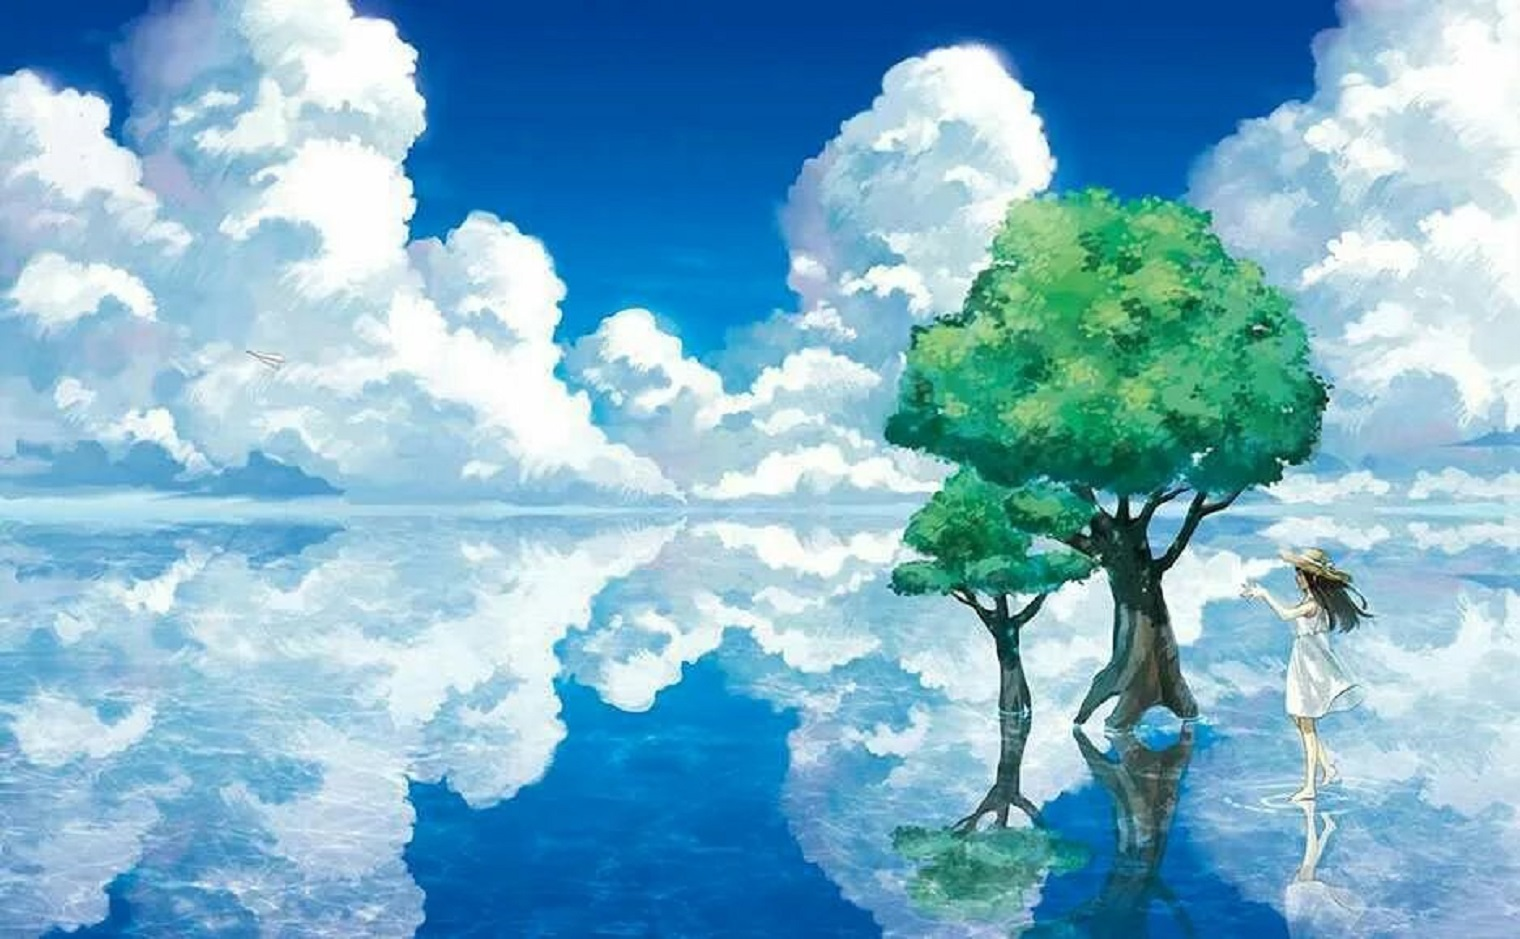
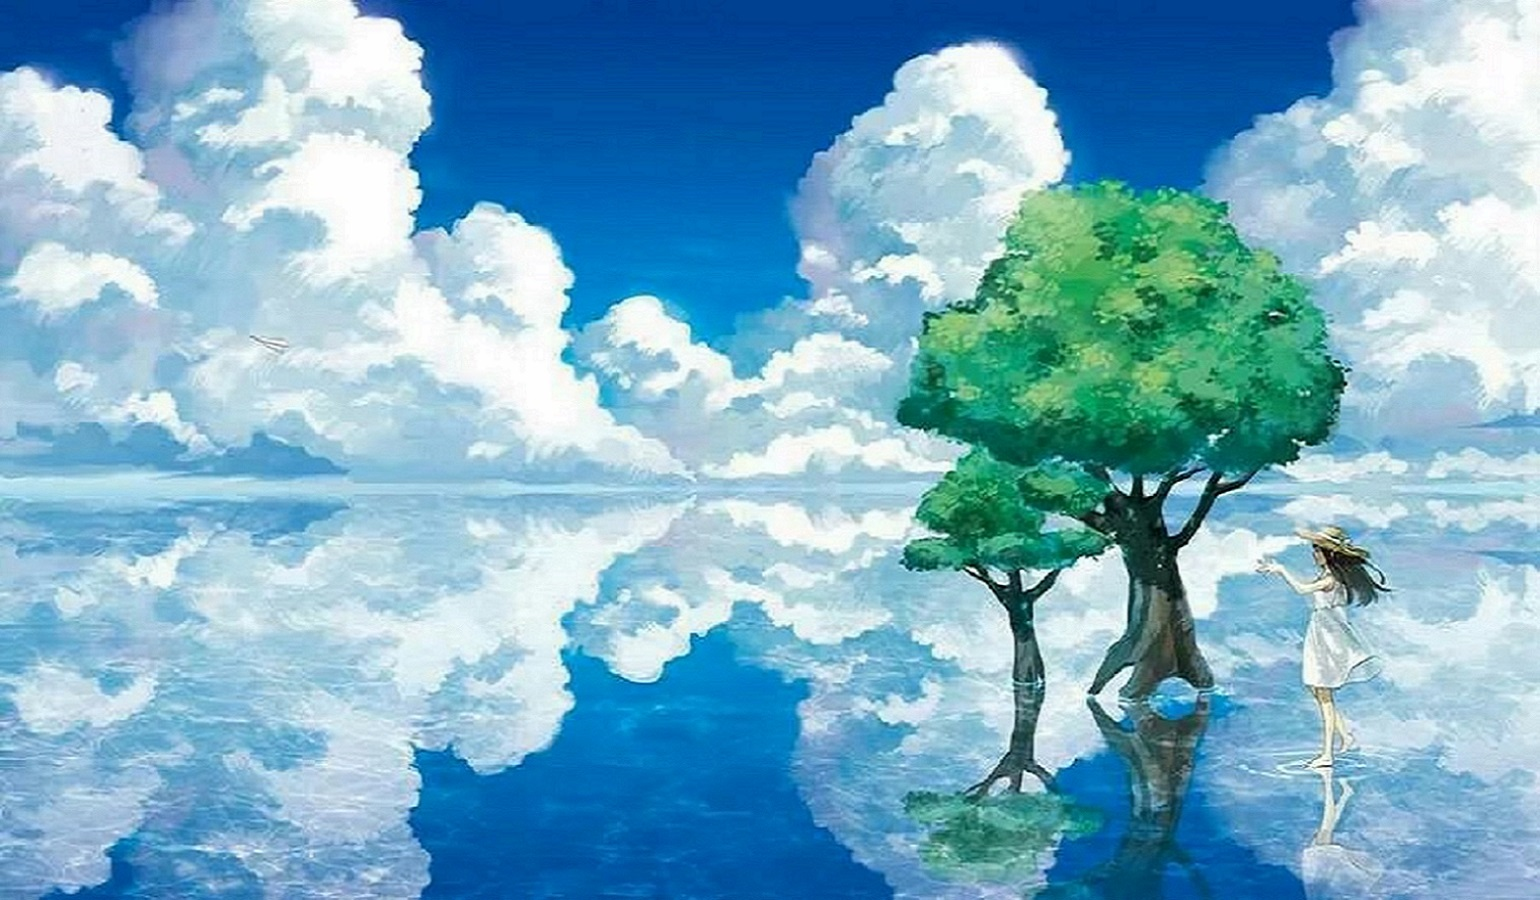
2

diff --git a/wang.html b/wang.html
@@ -5,7 +5,7 @@
 		<title>顶锅汪汪</title>
 		<link rel = "stylesheet" href = "static/css/wang.css"/>
 		<style>
-			body{background-image: url(static/img/back4.jpg); background-repeat: repeat-x}
+			body{background-image: url(static/img/back4.png); background-repeat: repeat-x}
 		</style>
 	</head>
 	<body>
